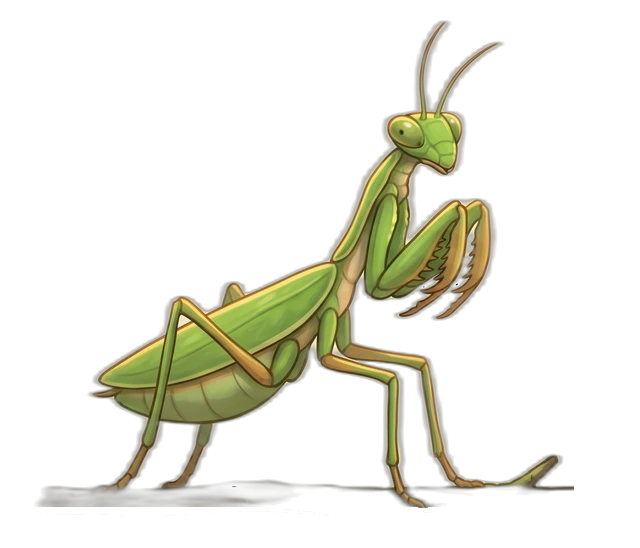
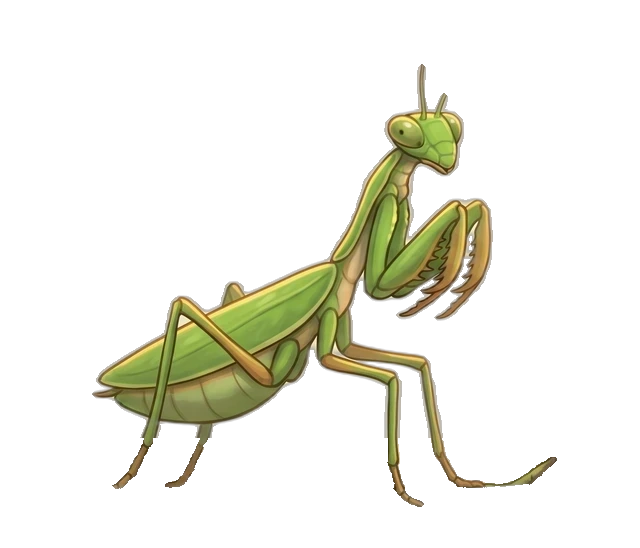
fix(app): 채집함 카드가 칸을 꽉 채우게 · 장착 펫 그림 크게(Lv 겹침) · 넓적배사마귀 그림자·가지 제거
- 빨간 점 Stack 이 느슨한 제약을 줘 카드가 내용 폭만큼만 그려져 칸 사이가 벌어졌다 → SizedBox.expand.
- 장착 펫 카드 높이 96 그대로, 그림 44 → 64 · Lv 는 그림 위에 겹침(그림자 글씨).
- 수컷 넓적배사마귀 4장: 바닥 회색 그림자 띠·나뭇가지 조각 제거.

diff --git a/packages/app/lib/features/storage/storage_screen.dart b/packages/app/lib/features/storage/storage_screen.dart
@@ -3158,7 +3158,17 @@ class StorageScreen extends ConsumerWidget {
     // 단계 빠른 칩은 뺐다(2026-10-24 사장님 — 격자 자리를 먹는다). 단계 거르기는 보기 시트의 "단계"(유충·번데기)로.
     return Padding(
       padding: const EdgeInsets.fromLTRB(12, 4, 12, 0),
-      child: _viewFilterRow(context, ref, data, l, save, view, ready, parts, shown),
+      child: _viewFilterRow(
+        context,
+        ref,
+        data,
+        l,
+        save,
+        view,
+        ready,
+        parts,
+        shown,
+      ),
     );
   }
 
@@ -3563,15 +3573,18 @@ class StorageScreen extends ConsumerWidget {
     top: -2,
     right: -2,
     size: 9,
-    child: _bugCellBody(
-      context,
-      ref,
-      data,
-      bug,
-      stage,
-      equipped,
-      duelPower,
-      canRarityUp: canRarityUp,
+    // 칸을 꽉 채운다(2026-10-24 실기 — 빨간 점 Stack 이 느슨한 제약을 줘 카드가 내용 폭만큼만 그려져 칸 사이가 벌어졌다).
+    child: SizedBox.expand(
+      child: _bugCellBody(
+        context,
+        ref,
+        data,
+        bug,
+        stage,
+        equipped,
+        duelPower,
+        canRarityUp: canRarityUp,
+      ),
     ),
   );
 
@@ -4029,28 +4042,41 @@ class StorageScreen extends ConsumerWidget {
                 )
               : Column(
                   children: [
-                    Align(
-                      alignment: Alignment.topRight,
-                      child: Padding(
-                        padding: const EdgeInsets.only(top: 4, right: 6),
-                        child: Text(
-                          'Lv.${bug.level}',
-                          style: const TextStyle(
-                            color: Colors.white,
-                            fontWeight: FontWeight.w800,
-                            fontSize: 11,
-                          ),
-                        ),
-                      ),
-                    ),
+                    // 그림을 키우고 Lv 를 그림 위에 겹친다(2026-10-24 사장님 — 카드 높이는 그대로, 그림만 크게).
                     Expanded(
-                      child: bugStageImage(
-                        bug.speciesId,
-                        stage,
-                        sex: bug.sex,
-                        size: 44,
-                        fallback: bugAvatar(species!, size: 40),
-                        skin: bugView(ref.watch(skinOfProvider), bug),
+                      child: Stack(
+                        clipBehavior: Clip.none,
+                        children: [
+                          Positioned.fill(
+                            top: 2,
+                            child: bugStageImage(
+                              bug.speciesId,
+                              stage,
+                              sex: bug.sex,
+                              size: 64,
+                              fallback: bugAvatar(species!, size: 56),
+                              skin: bugView(ref.watch(skinOfProvider), bug),
+                            ),
+                          ),
+                          Positioned(
+                            top: 4,
+                            right: 6,
+                            child: Text(
+                              'Lv.${bug.level}',
+                              style: const TextStyle(
+                                color: Colors.white,
+                                fontWeight: FontWeight.w800,
+                                fontSize: 11,
+                                shadows: [
+                                  Shadow(
+                                    color: Color(0xCC000000),
+                                    blurRadius: 3,
+                                  ),
+                                ],
+                              ),
+                            ),
+                          ),
+                        ],
                       ),
                     ),
                     // 어떤 곤충을 끼웠는지 그림만으로는 헷갈린다 — 이름을 적는다.
